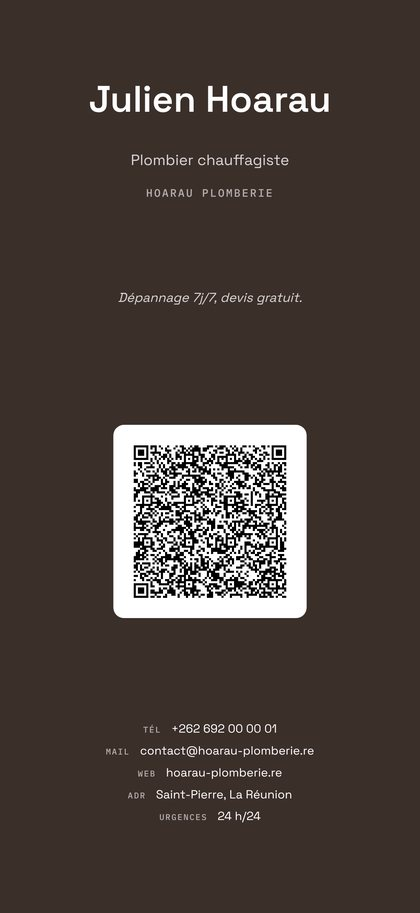
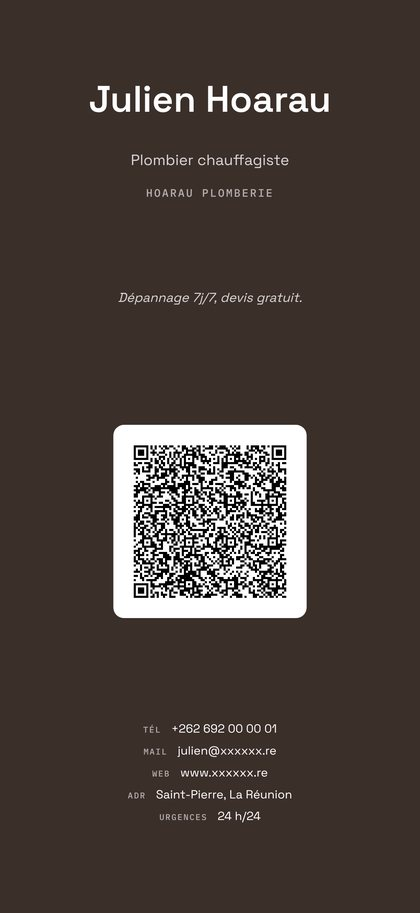
Site : exemples avec mail, site et Instagram masqués (xxxxxx)
Les adresses mail, sites et le compte Instagram des cartes d'exemple
sont remplacés par des x, comme les numéros factices, pour ne jamais
pointer vers une vraie personne ou entreprise.

Claude-Session: https://claude.ai/code/session_01CTwJnYtAsMSA1mPvyv4WUq

Changed region(s): [[0.3095, 0.4907, 0.681, 0.6747], [0.3405, 0.7974, 0.7429, 0.8587], [0.2476, 0.7974, 0.2786, 0.828]]

diff --git a/index.html b/index.html
@@ -109,8 +109,8 @@ height="0" width="0" style="display:none;visibility:hidden"></iframe></noscript>
           <span class="ct-name">Julien Hoarau</span>
           <span class="ct-role">Plombier chauffagiste · Hoarau Plomberie</span>
           <span class="ct-row"><b>mobile</b>+262 692 00 00 01</span>
-          <span class="ct-row"><b>e-mail</b>contact@hoarau-plomberie.re</span>
-          <span class="ct-row"><b>site</b>hoarau-plomberie.re</span>
+          <span class="ct-row"><b>e-mail</b>julien@xxxxxx.re</span>
+          <span class="ct-row"><b>site</b>www.xxxxxx.re</span>
           <span class="ct-add">Ajouter aux contacts</span>
         </div>
         <p><strong>3. C’est dans son répertoire</strong>Nom, numéro, mail, site : tout s’ajoute d’un coup.</p>
